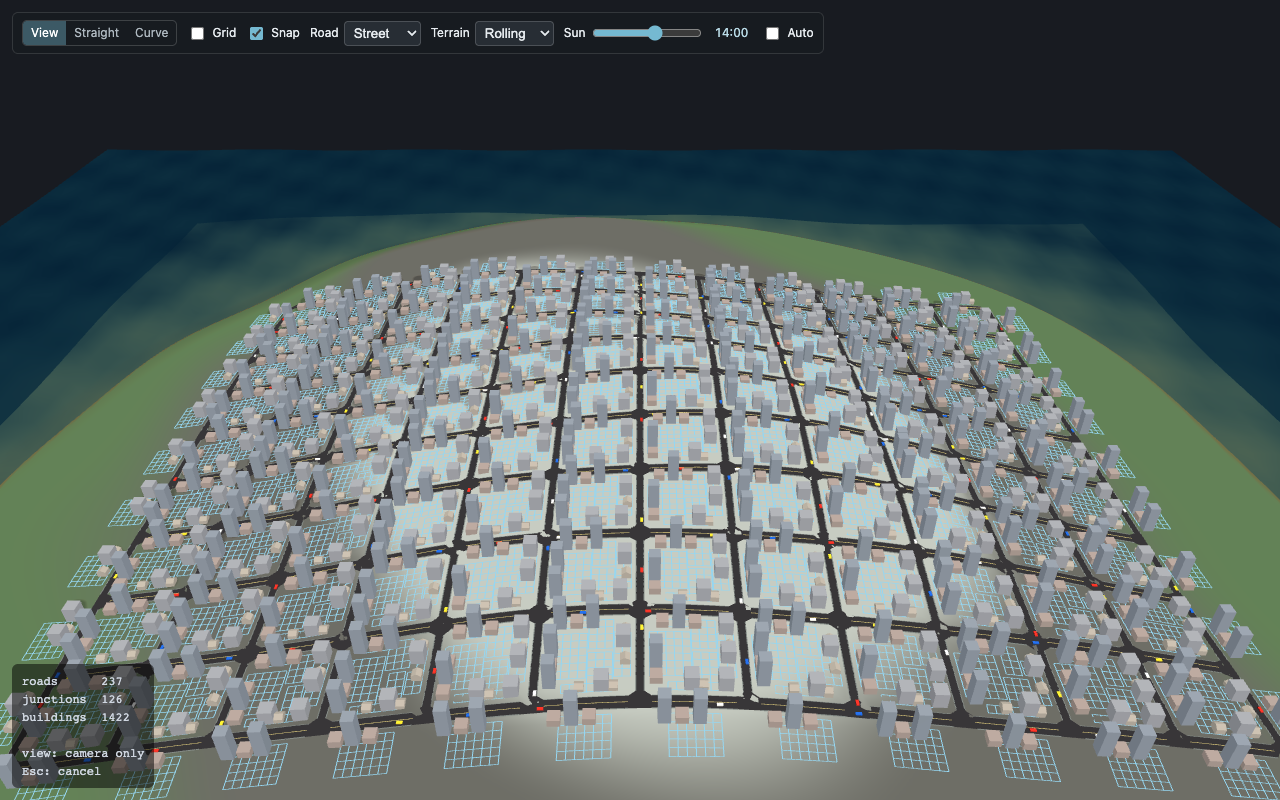
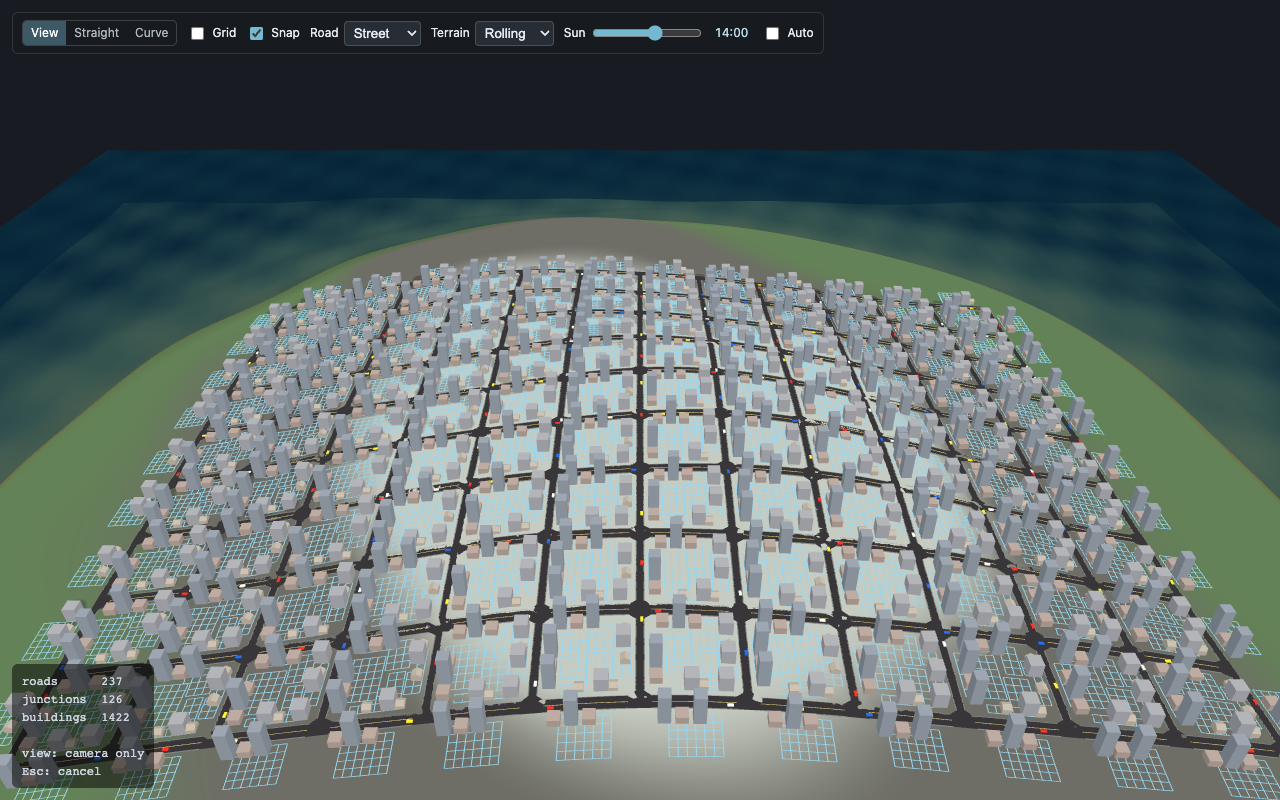
Expand terrain to ocean bounds

diff --git a/src/render/ground.ts b/src/render/ground.ts
@@ -8,7 +8,7 @@ import { Color3, Color4, Vector3 } from "@babylonjs/core/Maths/math";
 import { VertexBuffer } from "@babylonjs/core/Buffers/buffer";
 import { SEA_LEVEL, type Heightmap } from "../sim/heightmap";
 
-export const GROUND_SIZE = 2000;
+export const GROUND_SIZE = 2700;
 export const GROUND_CELL = 8;
 
 /**
@@ -82,7 +82,7 @@ export function createOcean(scene: Scene) {
   material.emissiveColor = new Color3(0.01, 0.04, 0.055);
   material.specularColor = new Color3(0.35, 0.55, 0.62);
 
-  const size = GROUND_SIZE * 1.35;
+  const size = GROUND_SIZE;
   const cells = 72;
   const positions = new Float32Array((cells + 1) * (cells + 1) * 3);
   const normals = new Float32Array((cells + 1) * (cells + 1) * 3);

diff --git a/src/sim/heightmap.ts b/src/sim/heightmap.ts
@@ -164,7 +164,9 @@ export function rollingHills(amplitude = 6, wavelength = 900): (x: number, z: nu
       peak(20, 190, 17, 360) +
       peak(0, 0, 19, 300) +
       ridge;
-    const coast = smoothstep((Math.hypot(x, z) - 760) / 260);
-    return 10 + mountain + hills - coast * 60;
+    const r = Math.hypot(x, z);
+    const coast = smoothstep((r - 760) / 260);
+    const deep = smoothstep((r - 980) / 360);
+    return 10 + mountain + hills - coast * 60 - deep * 90;
   };
 }

diff --git a/src/sim/heightmap.test.ts b/src/sim/heightmap.test.ts
@@ -140,6 +140,11 @@ describe("heightmap", () => {
     expect(terrain(980, 0)).toBeLessThan(SEA_LEVEL);
   });
 
+  it("sinks the island into deeper water offshore", () => {
+    const terrain = rollingHills();
+    expect(terrain(1300, 0)).toBeLessThan(terrain(980, 0) - 50);
+  });
+
   it("raises clustered mountains into a higher central peak", () => {
     const terrain = rollingHills();
     expect(terrain(0, 0)).toBeGreaterThan(terrain(500, 0) + 70);
